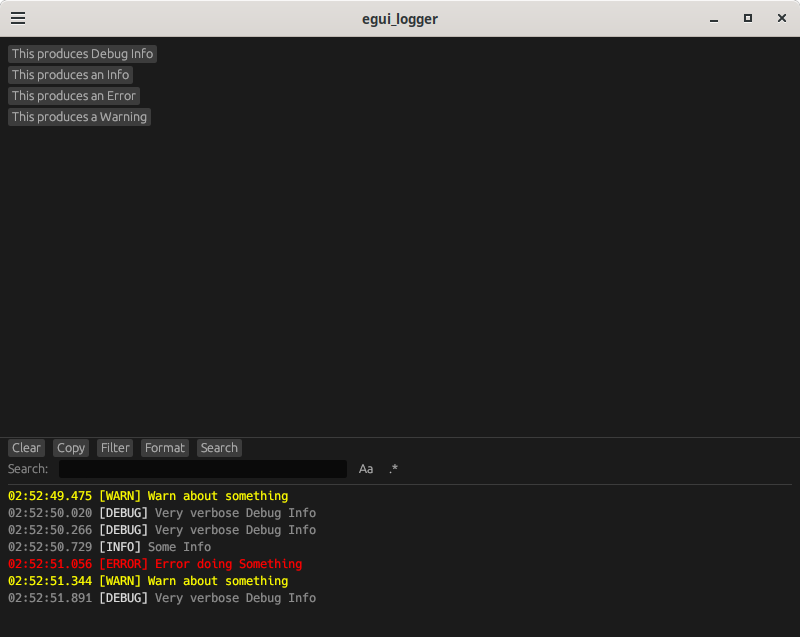
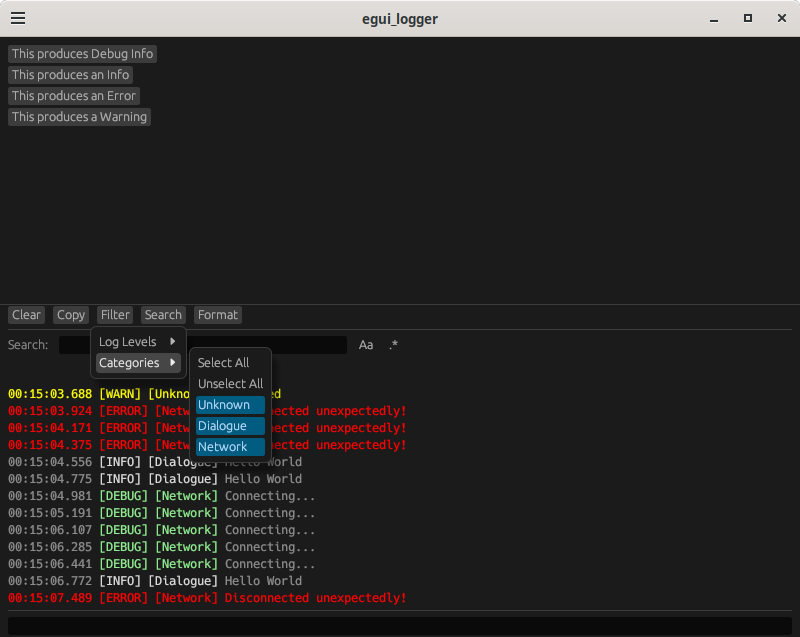
Improve display.
* added custom text prefix for user input (e.g. to display usernames. Prefixes have a max length of 16.
* Removed newlines from inputs. I remember it being abused.

Changed region(s): [[0.0, 0.4772, 0.5312, 0.9545], [0.0, 0.5369, 0.0625, 0.5667], [0.4375, 0.5369, 0.4688, 0.5667]]

diff --git a/src/lib.rs b/src/lib.rs
@@ -117,7 +117,7 @@ pub struct EguiLogger {
     search_regex: Option<Regex>,
     // Whether regex based searching is enabled.
     pub search_with_regex: bool,
-    /// Whether search should be case sensitive.
+    /// Whether search should be case sensitive. This also applies to regex search.
     pub search_with_case_sensitive: bool,
 
     #[serde(serialize_with = "serialize_color32", deserialize_with = "deserialize_color32")]
@@ -125,7 +125,17 @@ pub struct EguiLogger {
     #[serde(serialize_with = "serialize_color32", deserialize_with = "deserialize_color32")]
     pub error_color: Color32,
     #[serde(serialize_with = "serialize_color32", deserialize_with = "deserialize_color32")]
-    pub highlight_color: Color32,
+    pub info_color: Color32,
+    #[serde(serialize_with = "serialize_color32", deserialize_with = "deserialize_color32")]
+    pub debug_color: Color32,
+
+    // Fields related to the text box and user input.
+
+    pub show_input_area: bool,
+    input_text: String,
+    pub input_text_prefix: String,
+    input_categories: Vec<String>,
+    pub input_level: LogLevel,
 }
 
 impl Default for EguiLogger {
@@ -148,7 +158,7 @@ impl EguiLogger {
             records: default_records(),
             category_counts: Default::default(),
             min_display_level: LogLevel::Debug,
-            hidden_categories: HashSet::new(), // Empty means show all
+            hidden_categories: HashSet::new(),
             time_format: TimeFormat::LocalTime,
             time_precision: TimePrecision::Seconds,
             show_categories: true,
@@ -162,7 +172,13 @@ impl EguiLogger {
             search_with_case_sensitive: false,
             warn_color: Color32::YELLOW,
             error_color: Color32::RED,
-            highlight_color: Color32::LIGHT_GRAY,
+            info_color: Color32::LIGHT_GRAY,
+            debug_color: Color32::LIGHT_GREEN,
+            show_input_area: true,
+            input_text: String::new(),
+            input_text_prefix: String::new(),
+            input_categories: vec!["Input".parse().unwrap()],
+            input_level: LogLevel::Info,
         }
     }
 
@@ -183,10 +199,12 @@ impl EguiLogger {
     pub fn log<T: ToString>(&mut self, level: LogLevel, categories: Vec<T>, message: &str) {
         let category_strs: Vec<String> = categories.into_iter().map(|c| c.to_string()).collect();
 
-        let truncated_message = if message.len() > self.max_message_length {
-            format!("{}...", &message[..self.max_message_length.saturating_sub(3)])
+        let cleaned_message: String = message.chars().filter(|c| !c.eq(&'\n')).collect();
+
+        let truncated_message = if cleaned_message.len() > self.max_message_length {
+            format!("{}...", &cleaned_message[..self.max_message_length.saturating_sub(3)])
         } else {
-            message.parse().unwrap()
+            cleaned_message.parse().unwrap()
         };
 
         category_strs.iter().for_each(
@@ -227,6 +245,10 @@ impl EguiLogger {
         self.enforce_limit(&LogLevel::Warn);
         self.enforce_limit(&LogLevel::Info);
         self.enforce_limit(&LogLevel::Debug);
+    }
+
+    pub fn set_input_categories<T: ToString>(&mut self, categories: Vec<T>) {
+        self.input_categories = categories.into_iter().map(|c| c.to_string()).collect();
     }
 
     /// Clear all log records
@@ -312,24 +334,32 @@ impl EguiLogger {
     pub fn show(&mut self, ui: &mut egui::Ui) {
         let time_padding = self.get_time_format_padding();
 
+        // Top Bar
         ui.horizontal(|ui| {
+            // TODO: Should this Clear everything, or only things which are currently visible?
             if ui.button("Clear").clicked() {
                 self.clear();
             }
 
             // TODO: add a "copy recent" button based on timestamp? Maybe 2 minutes of logs?
             if ui.button("Copy").clicked() {
-                let mut out_string = String::new();
-                // TODO: How can I efficiently interleave logs based on timestamp? I shouldn't need to sort if each individual `Vec<LogRecord>` is already sorted. Just need to pop off of each one in turn.
                 let time_padding = self.get_time_format_padding();
-                self.records.values().into_iter().flatten()
+
+                // Collect, filter, then sort records for a chronological copy.
+                let mut records_to_copy: Vec<&LogRecord> = self.records
+                    .values()
+                    .flatten()
                     .filter(|record| self.matches_filters(record))
-                    .for_each(|record| {
-                        out_string.push_str(
-                            self.format_record(record, time_padding).text.clone().as_str(),
-                        );
-                        out_string.push_str(" \n");
-                    });
+                    .collect();
+                records_to_copy.sort_by_key(|r| r.timestamp);
+
+                let mut out_string = String::new();
+                for record in records_to_copy {
+                    out_string.push_str(
+                        self.format_record(record, time_padding).text.as_str(),
+                    );
+                    out_string.push_str("\n"); // Use newline for better copy-paste
+                }
                 ui.ctx().copy_text(out_string);
             };
 
@@ -403,10 +433,15 @@ impl EguiLogger {
                 if ui.selectable_label(self.show_level, "Show Log Level").clicked() {
                     self.show_level = !self.show_level;
                 }
+                if ui.selectable_label(self.show_input_area, "Show Input Area").clicked() {
+                    self.show_input_area = !self.show_input_area;
+                }
                 // TODO: support changing text colors.
             });
         });
+        ui.separator();
 
+        // Search Bar
         if self.show_search {
             ui.horizontal(|ui| {
                 ui.label("Search: ");
@@ -443,13 +478,19 @@ impl EguiLogger {
             });
         }
 
-        let mut logs_displayed: usize = 0;
-
+        // Text display
         egui::ScrollArea::vertical()
-            .auto_shrink([false, true])
-            .max_height(ui.available_height() - 30.0)
+            .max_height(ui.available_height())
             .stick_to_bottom(true)
             .show(ui, |ui| {
+                // Add some empty labels to pad out this display area. Otherwise the scroll bar lets
+                // it collapse into a pancake. Setting min_height didn't work because it then made the
+                // input box show up near the middle of the screen! There's probably a way to do
+                // this properly, but this seems fine.
+                for _ in 0..16 {
+                    ui.label("");
+                }
+
                 let mut all_records: Vec<&LogRecord> = self.records.values().flatten().collect();
                 all_records.sort_by_key(|r| r.timestamp);
                 all_records.into_iter().for_each(|record| {
@@ -459,6 +500,7 @@ impl EguiLogger {
                     }
 
                     let layout_job = self.format_record(&record, time_padding);
+                    // TODO: this text clone is effectively an N^2 operation over all records I think? If so, make a stringbuilder at the top and then set the clipboard at the end.
                     let raw_text = layout_job.text.clone();
 
                     // Filter out logs that are disabled via search options.
@@ -484,10 +526,33 @@ impl EguiLogger {
                             ui.ctx().copy_text(raw_text);
                         }
                     });
-
-                    logs_displayed += 1;
                 });
-            });
+            // Text input
+            if self.show_input_area {
+                ui.separator(); // Visual separation above input field
+                egui::ScrollArea::vertical().id_salt("text_input_area")
+                    .stick_to_bottom(true).show(ui, |ui| {
+                    ui.horizontal(|ui| {
+                        let input_edit = egui::TextEdit::singleline(&mut self.input_text)
+                            .char_limit(self.max_message_length)
+                            .cursor_at_end(true)
+                            .hint_text("")
+                            .id(egui::Id::new("egui_logger_input_field")) // Unique ID for focus
+                            .desired_width(f32::INFINITY); // Take all available horizontal space
+
+                        let response = ui.add(input_edit);
+
+                        if response.lost_focus() && ui.input(|i| i.key_pressed(egui::Key::Enter)) && !self.input_text.trim().is_empty() {
+                            let prefix_text: String = self.input_text_prefix.chars().take(16).collect(); // Cap prefixes at 16 characters.
+                            let input_text = std::mem::take(&mut self.input_text); // Get text and clear field
+                            let submitted_text = format!("{}{}", prefix_text, input_text);
+                            self.log_info(self.input_categories.clone(), submitted_text.as_str());
+                            response.request_focus(); // Keep focus on the input field after submit. Pressing enter on an empty input skips this, and is the way to escape the input box.
+                        }
+                    });
+                });
+            }
+        });
     }
 
     // match_string determines if the given search terms match the provided string.
@@ -563,7 +628,8 @@ impl EguiLogger {
         let highlight_color = match record.level {
             LogLevel::Warn => self.warn_color,
             LogLevel::Error => self.error_color,
-            _ => self.highlight_color,
+            LogLevel::Info => self.info_color,
+            LogLevel::Debug => self.debug_color,
         };
 
         RichText::new(level_str + &category_str)
@@ -571,6 +637,7 @@ impl EguiLogger {
             .color(highlight_color)
             .append_to(&mut layout_job, &style, FontSelection::Default, Align::LEFT);
 
+        // The full message gets the color for warn and error since it makes them stand out.
         let mut message = RichText::new(&record.message).monospace();
         match record.level {
             LogLevel::Warn => message = message.color(self.warn_color),

diff --git a/examples/demo.rs b/examples/demo.rs
@@ -1,3 +1,5 @@
+use std::fmt;
+use std::fmt::Formatter;
 use eframe::NativeOptions;
 use egui_logger::{TimeFormat, TimePrecision};
 
@@ -8,11 +10,35 @@ fn main() {
     logger.show_level = true;
     logger.time_format = TimeFormat::LocalTime;
     logger.time_precision = TimePrecision::Milliseconds;
+    logger.input_text_prefix = "User: ".to_string();
+    logger.set_input_categories(vec![MyLogCategory::Input,MyLogCategory::Dialogue]);
 
     let app = MyApp::new(logger);
 
     eframe::run_native("egui_logger", NativeOptions::default(), Box::new(|_cc| Ok(Box::new(app)))).unwrap();
 }
+
+#[derive(Debug, Clone, Copy)]
+#[allow(dead_code)]
+enum MyLogCategory {
+    Unknown,
+    Dialogue,
+    Input,
+    Combat,
+    Network,
+}
+impl fmt::Display for MyLogCategory {
+    fn fmt(&self, f: &mut Formatter<'_>) -> fmt::Result {
+        match self {
+            MyLogCategory::Unknown => write!(f, "Unknown"),
+            MyLogCategory::Dialogue => write!(f, "Dialogue"),
+            MyLogCategory::Input => write!(f, "Input"),
+            MyLogCategory::Combat => write!(f, "Combat"),
+            MyLogCategory::Network => write!(f, "Network"),
+        }
+    }
+}
+
 
 struct MyApp {
     logger: egui_logger::EguiLogger,
@@ -29,19 +55,19 @@ impl eframe::App for MyApp {
     fn update(&mut self, ctx: &egui::Context, _frame: &mut eframe::Frame) {
         egui::CentralPanel::default().show(ctx, |ui| {
             if ui.button("This produces Debug Info").clicked() {
-                self.logger.log_debug(vec!["Category1"],"Very verbose Debug Info")
+                self.logger.log_debug(vec![MyLogCategory::Network],"Connecting...")
             }
             if ui.button("This produces an Info").clicked() {
-                self.logger.log_info(vec!["Category1"],"Some Info")
+                self.logger.log_info(vec![MyLogCategory::Dialogue],"Hello World")
             }
             if ui.button("This produces an Error").clicked() {
-                self.logger.log_error( vec!["Serious", "OMG"],"Error doing Something");
+                self.logger.log_error( vec![MyLogCategory::Network],"Disconnected unexpectedly!");
             }
             if ui.button("This produces a Warning").clicked() {
-                self.logger.log_warn(vec![""], "Warn about something")
+                self.logger.log_warn(vec![MyLogCategory::Unknown], "Be warned")
             }
         });
-        egui::TopBottomPanel::bottom("chat area").min_height(200_f32).show(ctx, |ui| {
+        egui::TopBottomPanel::bottom("chat area").resizable(true).min_height(200.0).show(ctx, |ui| {
             self.logger.show(ui);
         });
     }
